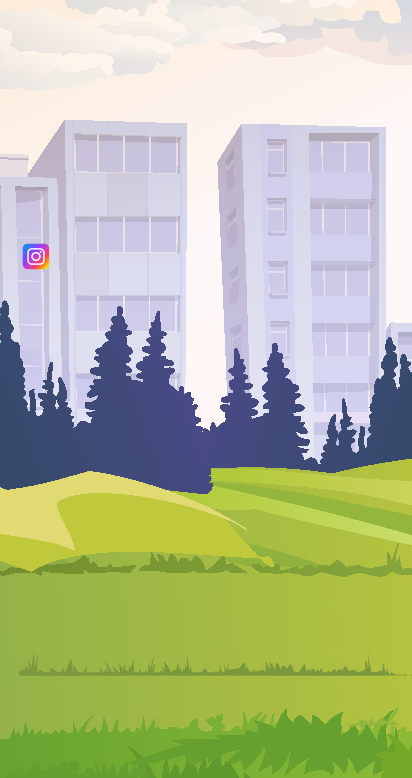
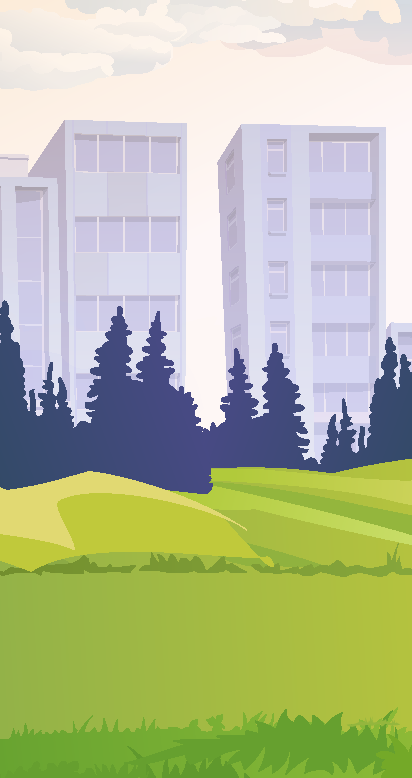
cambios finales merck

Changed region(s): [[0.0583, 0.8329, 0.9612, 0.8946], [0.0291, 0.3085, 0.1165, 0.3702]]

diff --git a/src/views/screens/habitacion1/Habitacion1.jsx b/src/views/screens/habitacion1/Habitacion1.jsx
@@ -91,32 +91,32 @@ export default function Habitacion1() {
               className="esclerosis-fondo1 "
               onClick={() => handleOpenModal("url_1")}
             >
-              <img src="/images/home/cortina1.png" alt="" />
+              {/* <img src="/images/home/cortina1.png" alt="" /> */}
             </StyledItem>
             <StyledItemSilla
               className="silla"
               onClick={() => handleOpenModal("url_2")}
             >
-              <img src="/images/home/silla-ruedas.png" alt="" />
+              {/* <img src="/images/home/silla-ruedas.png" alt="" /> */}
             </StyledItemSilla>
             <StyledItemRetrato
               className="retrato"
               onClick={() => handleOpenModal("url_3")}
             >
-              <img src="/images/home/retrato.png" alt="" />
+              {/* <img src="/images/home/retrato.png" alt="" /> */}
             </StyledItemRetrato>
             <StyledItemTocador
               className="tocador"
               onClick={() => handleOpenModal("url_4")}
             >
-              <img src="/images/home/tocador.png" alt="" />
+              {/* <img src="/images/home/tocador.png" alt="" /> */}
             </StyledItemTocador>
             
             <StyledItemLampara
               className="lampara"
               onClick={() => handleOpenModal("url_5")}
             >
-              <img src="/images/home/lampara.png" alt="" />
+              {/* <img src="/images/home/lampara.png" alt="" /> */}
             </StyledItemLampara>
             {/* <StyledItemCama className="cama">
               <img src="/images/home/cama.png" alt="" />
@@ -204,28 +204,28 @@ Habitacion1.Mobile = ({
           className="silla"
           onClick={() => handleOpenModal("url_2")}
         >
-          <img src="/images/home/chair_responsive.png" alt="" />
+          {/* <img src="/images/home/chair_responsive.png" alt="" /> */}
         </StyledItemSilla>
         <StyledItem
           className="esclerosis-fondo1"
           onClick={() => handleOpenModal("url_1")}
         >
-          <img src="/images/home/cortina-movil.png" alt="" />
+          {/* <img src="/images/home/cortina-movil.png" alt="" /> */}
         </StyledItem>
         <StyledItemCama className="cama">
-          <img src="/images/home/cama-movil.png" alt="" />
+          {/* <img src="/images/home/cama-movil.png" alt="" /> */}
         </StyledItemCama>
         <StyledItemLampara
           className="lampara"
           onClick={() => handleOpenModal("url_5")}
         >
-          <img src="/images/home/lampara-mobil.png" alt="" />
+          {/* <img src="/images/home/lampara-mobil.png" alt="" /> */}
         </StyledItemLampara>
         <StyledItemTocador
           className="tocador"
           onClick={() => handleOpenModal("url_4")}
         >
-          <img src="/images/home/tocador-movil.png" alt="" />
+          {/* <img src="/images/home/tocador-movil.png" alt="" /> */}
         </StyledItemTocador>
         <StyledItemRetrato
           className="retrato"
@@ -258,19 +258,19 @@ Habitacion1.Tablet = ({
     <Fragment>
       <div className="container">
         <StyledItemSilla className="silla" onClick={() => handleOpenModal("url_2")}>
-          <img src="/images/home/silla-tablet.png" alt="" />
+          {/* <img src="/images/home/silla-tablet.png" alt="" /> */}
         </StyledItemSilla>
         <StyledItem className="esclerosis-fondo1 " onClick={() => handleOpenModal("url_1")}>
-          <img src="/images/home/cortina-tablet-8.png" alt="" />
+          {/* <img src="/images/home/cortina-tablet-8.png" alt="" /> */}
         </StyledItem>
         <StyledItemCama className="cama">
-          <img src="/images/home/cama-tablet-8.png" alt="" />
+          {/* <img src="/images/home/cama-tablet-8.png" alt="" /> */}
         </StyledItemCama>
         <StyledItemLampara className="lampara" onClick={() => handleOpenModal("url_5")}>
-          <img src="/images/home/lampara-tablet-8.png" alt="" />
+          {/* <img src="/images/home/lampara-tablet-8.png" alt="" /> */}
         </StyledItemLampara>
         <StyledItemTocador className="tocador" onClick={() => handleOpenModal("url_4")}>
-          <img src="/images/home/tocador-tablet-8.png" alt="" />
+          {/* <img src="/images/home/tocador-tablet-8.png" alt="" /> */}
         </StyledItemTocador>
         <StyledItemRetrato
           className="retrato"

diff --git a/src/views/screens/habitacion1/habitacion1.styles.js b/src/views/screens/habitacion1/habitacion1.styles.js
@@ -75,8 +75,8 @@ export const StyledItem = styled.div`
 `;
 
 export const StyledItemSilla = styled.div`
-  ${tw`absolute w-[17.1%] left-[5.6%] top-[60.2%] cursor-pointer`}
-  animation: ${fadeInOut} 15s ease-in-out infinite;  
+  ${tw`absolute w-[11.7%] left-[13.3%] top-[87.2%] h-[6%] cursor-pointer`}
+  /* animation: ${fadeInOut} 15s ease-in-out infinite;   */
 
   @media (max-width: 1024px) {
     ${tw`left-[3.8%] top-[65.4%] h-[29%] w-[33.1%]`}
@@ -97,8 +97,8 @@ export const StyledItemSilla = styled.div`
 `;
 
 export const StyledItemRetrato = styled.div`
-  ${tw`absolute w-[15.7%] left-[41.8%] top-[35%] cursor-pointer`}
-  animation: ${fadeInOut} 15s ease-in-out infinite;
+  ${tw`absolute w-[13.8%] left-[42.8%] top-[55%] h-[6%] cursor-pointer`}
+  /* animation: ${fadeInOut} 15s ease-in-out infinite; */
 
   @media (max-width: 1024px) {
     ${tw`left-[43%] top-[27.2%] w-[22.4%] h-[16%]`}
@@ -119,7 +119,7 @@ export const StyledItemRetrato = styled.div`
 
 export const StyledItemCama = styled.div`
   ${tw`absolute w-[28.7%] left-[33.7%] top-[63.1%] cursor-pointer`}
-  animation: ${fadeInOut} 15s ease-in-out infinite;
+  /* animation: ${fadeInOut} 15s ease-in-out infinite; */
 
   @media (max-width: 1024px) {
     ${tw`left-[30%] top-[39.2%] w-[47.4%] h-[30%]`}
@@ -139,8 +139,8 @@ export const StyledItemCama = styled.div`
 `;
 
 export const StyledItemLampara = styled.div`
-  ${tw`absolute w-[16.7%] left-[57.8%] top-[59.1%] cursor-pointer`}
-  animation: ${fadeInOut} 15s ease-in-out infinite;
+  ${tw`absolute w-[16.7%] left-[57.8%] top-[79.1%] h-[10%] cursor-pointer`}
+  /* animation: ${fadeInOut} 15s ease-in-out infinite; */
 
   @media (max-width: 1024px) {
     ${tw`left-[32.7%] top-[53.4%] w-[37.3%] h-[37.2%]`}
@@ -160,8 +160,8 @@ export const StyledItemLampara = styled.div`
 `;
 
 export const StyledItemTocador = styled.div`
-  ${tw`absolute w-[16.6%] left-[70.1%] top-[40.6%] cursor-pointer`}
-  animation: ${fadeInOut} 15s ease-in-out infinite;
+  ${tw`absolute w-[16.6%] left-[70.1%] top-[40.6%] h-[6%] cursor-pointer`}
+  /* animation: ${fadeInOut} 15s ease-in-out infinite; */
 
   @media (max-width: 1024px) {
     ${tw`left-[69%] top-[28.3%] w-[28.3%] h-[45.7%]`}
@@ -184,11 +184,11 @@ export const StyledItemTocador = styled.div`
 
 /** Puertas atras siguiente */
 export const StyledItemPuerta = styled.div`
-  ${tw`w-[11%] bottom-[4%] left-[-2%] absolute  cursor-pointer`}
+  ${tw`w-[11%] bottom-[5%] left-[-2%] absolute  cursor-pointer`}
 `;
 
 export const StyledItemSiguiente = styled.div`
-  ${tw`w-[11%] bottom-[4%] right-[-1.9%] absolute  cursor-pointer`}
+  ${tw`w-[11%] bottom-[5%] right-[-1.9%] absolute  cursor-pointer`}
 `;
 /** Puertas atras siguiente */
 

diff --git a/src/views/components/footer/Footer.jsx b/src/views/components/footer/Footer.jsx
@@ -15,6 +15,21 @@ export default function Footer() {
               height={34}
             />
 
+            {/* instagram */}
+            <div >
+              <a
+                href="https://www.instagram.com/casadelaesclerosislatam/"
+                target="_blank"
+              >
+                <img
+                  className="alianzas responsive absolute w-[-5%] h-[64%] top-[27%] left-[3.7%]"
+                  src="/images/home/in.webp"
+                  alt=""
+                />
+              </a>
+            </div>
+            {/* instagram */}
+
             {/* <div className="flex gap-[25px]">
               <span className="text-[8px]">Terminos y condiciones</span>
               <span className="text-[8px]">Declaracion de privacidad</span>
@@ -30,14 +45,18 @@ export default function Footer() {
                 residentes en Ecuador, Colombia. En ningún caso la información
                 contenida en la misma sustituye la consulta, el tratamiento y
                 las recomendaciones del profesional de la salud. Conozca más
-                sobre MERCK en <a href="https://www.merckgroup.com/de" target="_blank">www.merckgroup.com/de</a> 2023 /Grupo Merck © Todos
-                los derechos reservados. CO-NONNI-00160
+                sobre MERCK en{" "}
+                <a href="https://www.merckgroup.com/de" target="_blank">
+                  www.merckgroup.com/de
+                </a>{" "}
+                2023 /Grupo Merck © Todos los derechos reservados.
+                CO-NONNI-00160
               </p>
             </div>
             <div className="flex gap-[25px]">
               <a
                 target="_blank"
-                href="https://eml.com.co/merck/Te%CC%81rminos%20y%20Condiciones%20Generales%20de%20MERCK.pdf"
+                href="https://eml.com.co/merck/Terminos-y-condiciones-Merck.pdf"
                 className="text-[8px]"
               >
                 Terminos y condiciones

diff --git a/src/views/screens/Home/Home.jsx b/src/views/screens/Home/Home.jsx
@@ -251,6 +251,9 @@ Home.CreatorZone = () => {
           <StyledTitle className="trata">Creador de experiencias</StyledTitle>
         </div>
       </div>
+      <div className="absolute w-[20%]">
+          <img src="/images/home/candado.png" alt="candado" />
+        </div>
     </StyledContentExperenceCreator>
   );
 };
@@ -301,11 +304,6 @@ Home.Mobile = ({ setOpenModal }) => {
           className="h-[23px] absolute bottom-0"
         />
       </div>
-
-      <a href="https://www.instagram.com/casadelaesclerosislatam/" target="_blank"
-            className="alianzas  absolute w-[12%] h-[11%] top-[27%] left-[2.7%]"
-            
-          ></a>
     </StyledContent>
   );
 };

diff --git a/src/views/screens/Home/home.styles.js b/src/views/screens/Home/home.styles.js
@@ -174,7 +174,7 @@ export const StyledContentHCP = styled.div`
 `;
 
 export const StyledContentExperenceCreator = styled.div`
-  ${tw`w-[34.4%] h-[21.5%] absolute top-[68.5%] left-[9%] flex justify-center items-center cursor-pointer`}
+  ${tw`w-[34.4%] h-[21.5%] absolute top-[68.5%] left-[9%] flex justify-center items-center`}
 
   @media (max-width: 1024px) {
     ${tw`top-[70.6%] left-[10.1%] w-[41.3%] h-[24%]`}

diff --git a/src/views/components/footer/Footer.styles.js b/src/views/components/footer/Footer.styles.js
@@ -23,6 +23,8 @@ export const StyledContent = styled.footer`
         .boll {
             ${tw`hidden`}
         }
+
+        
     }
 
     @media (max-width: 600px) {
@@ -46,6 +48,12 @@ export const StyledContent = styled.footer`
 
         .hola {
             ${tw`text-justify`}
+        }
+
+        .responsive {
+            height: 40%;
+            left: 82.7%;
+            top: 12%;
         }
     }
 `;
